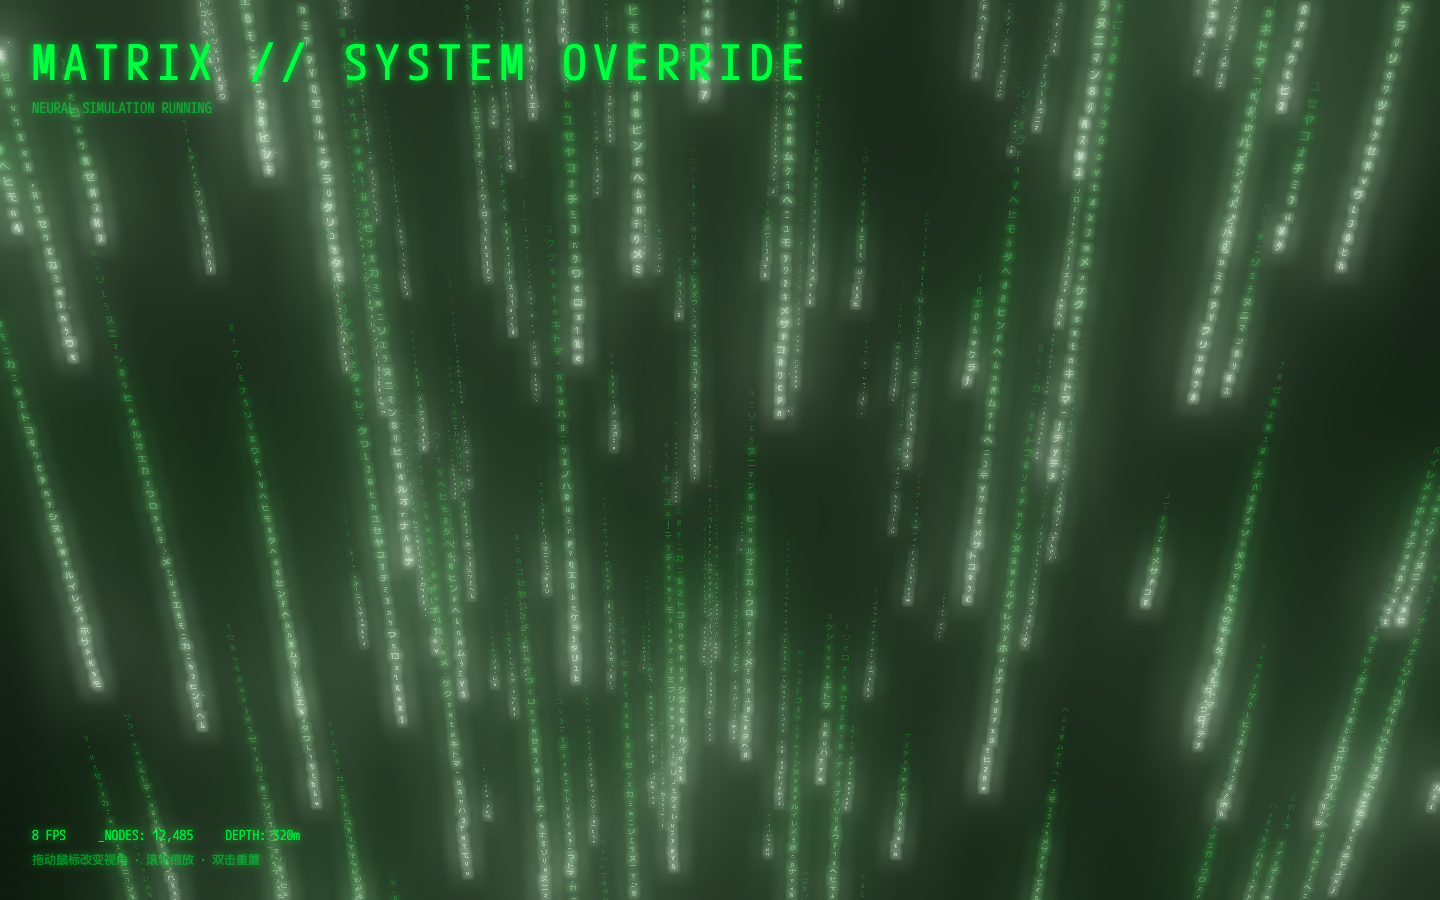
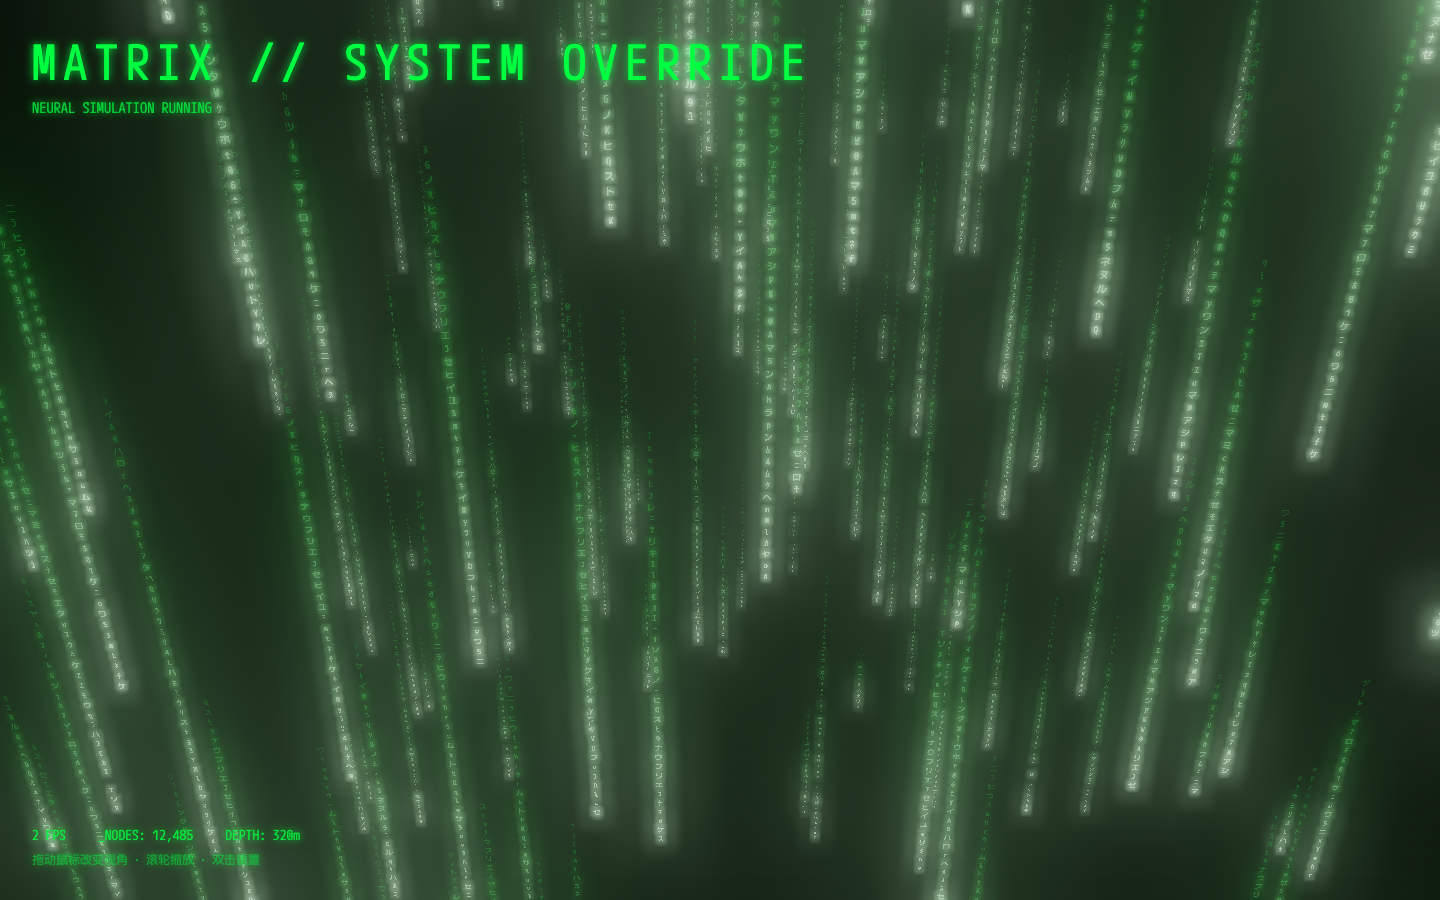
fix: lock camera, stop grid rotation, stagger per-column char changes

diff --git a/matrix.js b/matrix.js
@@ -116,6 +116,7 @@ const rainVertexShader = /* glsl */`
   attribute float aOffset;
   attribute float aLayerZ;
   attribute float aBrightness;
+  attribute float aCharSeed;
 
   uniform float uTime;
   uniform float uSpread;
@@ -133,7 +134,6 @@ const rainVertexShader = /* glsl */`
     vUv = uv;
     vBrightness = aBrightness;
 
-    float col = floor(float(gl_InstanceID) / uRows);
     float row = mod(float(gl_InstanceID), uRows);
 
     float headY = -mod(uTime * aSpeed + aOffset, uDepth) + uDepth * 0.5;
@@ -143,9 +143,11 @@ const rainVertexShader = /* glsl */`
 
     vTrailPos = row / max(aTrailLen, 1.0);
 
-    // Head changes fast; trail stays stable and only updates occasionally
-    float charTime = vTrailPos < 0.12 ? uTime * 7.0 : floor(uTime * 0.6);
-    vCharIndex = mod(charTime + float(gl_InstanceID) * 97.0, 256.0);
+    // Head: changes ~3x/sec. Trail: changes ~once every 5s, staggered per column.
+    float headTime = floor(uTime * 3.0 + aCharSeed * 0.1);
+    float trailTime = floor(uTime * 0.2 + aCharSeed);
+    float charTime = vTrailPos < 0.12 ? headTime : trailTime;
+    vCharIndex = mod(charTime + aCharSeed + row * 37.0, 256.0);
 
     vec3 pos = position * uCharSize;
     pos.x += x;
@@ -235,6 +237,7 @@ async function init() {
       const aOffset = new Float32Array(this.instanceCount);
       const aLayerZ = new Float32Array(this.instanceCount);
       const aBrightness = new Float32Array(this.instanceCount);
+      const aCharSeed = new Float32Array(this.instanceCount);
 
       const layerZ = -layerIndex * 24;
       const brightness = 1.0 - layerIndex * 0.28;
@@ -244,7 +247,8 @@ async function init() {
         const trailLen = CONFIG.trailMin + Math.floor(Math.random() * (CONFIG.trailMax - CONFIG.trailMin));
         const offset = Math.random() * CONFIG.depth;
         const columnX = c + 0.25;
-        const columnZ = layerZ + (Math.random() - 0.5) * 4.0;
+        const columnZ = layerZ;  // fixed per layer, no per-instance Z jitter
+        const charSeed = Math.floor(Math.random() * 256);
 
         for (let r = 0; r < this.maxRows; r++) {
           const i = c * this.maxRows + r;
@@ -254,6 +258,7 @@ async function init() {
           aOffset[i] = offset;
           aLayerZ[i] = columnZ;
           aBrightness[i] = brightness;
+          aCharSeed[i] = charSeed;
         }
       }
 
@@ -263,6 +268,7 @@ async function init() {
       geometry.setAttribute('aOffset', new THREE.InstancedBufferAttribute(aOffset, 1));
       geometry.setAttribute('aLayerZ', new THREE.InstancedBufferAttribute(aLayerZ, 1));
       geometry.setAttribute('aBrightness', new THREE.InstancedBufferAttribute(aBrightness, 1));
+      geometry.setAttribute('aCharSeed', new THREE.InstancedBufferAttribute(aCharSeed, 1));
 
       const material = new THREE.ShaderMaterial({
         vertexShader: rainVertexShader,
@@ -300,7 +306,7 @@ async function init() {
     rains.push(new MatrixRain(l));
   }
 
-  // GRID
+  // GRID — static, no rotation
   const gridHelper = new THREE.GridHelper(140, 70, '#004d0f', '#001a05');
   gridHelper.position.y = -CONFIG.depth / 2 - 2;
   scene.add(gridHelper);
@@ -317,27 +323,15 @@ async function init() {
   pointLight.position.set(0, 0, 10);
   scene.add(pointLight);
 
-  // INTERACTION
-  const mouse = new THREE.Vector2();
-  let camYaw = 0;
-  let camPitch = 0;
+  // INTERACTION — zoom only, no mouse-driven camera rotation
   let zoom = 32;
-
-  window.addEventListener('mousemove', (e) => {
-    mouse.x = (e.clientX / window.innerWidth) * 2 - 1;
-    mouse.y = -(e.clientY / window.innerHeight) * 2 + 1;
-    camYaw = mouse.x * 0.4;
-    camPitch = mouse.y * 0.25;
-  });
 
   window.addEventListener('wheel', (e) => {
     zoom += e.deltaY * 0.025;
-    zoom = Math.max(12, Math.min(70, zoom));
+    zoom = Math.max(15, Math.min(55, zoom));
   });
 
   window.addEventListener('dblclick', () => {
-    camYaw = 0;
-    camPitch = 0;
     zoom = 32;
   });
 
@@ -369,17 +363,13 @@ async function init() {
 
     rains.forEach(rain => rain.update(time));
 
-    const targetX = Math.sin(camYaw) * zoom;
-    const targetZ = Math.cos(camYaw) * zoom;
-    const targetCam = new THREE.Vector3(targetX, 6 + camPitch * 10, targetZ);
-
-    camera.position.lerp(targetCam, 0.04);
-    camera.lookAt(0, -12 + camPitch * 6, -25);
+    // Camera: fixed position, only zoom changes. No yaw/pitch.
+    camera.position.set(0, 6, zoom);
+    camera.lookAt(0, -12, -25);
 
     pointLight.position.copy(camera.position);
 
-    gridHelper.rotation.y = time * 0.015;
-    gridTop.rotation.y = -time * 0.015;
+    // Grids: completely static
 
     frameCount++;
     fpsTime += dt;

diff --git a/.workbuddy/memory/2026-07-02.md b/.workbuddy/memory/2026-07-02.md
@@ -7,3 +7,4 @@
 - 使用 EdgeOne CLI 部署到 EdgeOne Pages，项目名 `workbuddy-showcase-matrix`，访问地址：https://workbuddy-showcase-matrix-g9kuijah.edgeone.cool
 - MCP 连接器因 Token 错误无法使用，改走 CLI 部署成功。
 - 修复数字雨横向抖动问题：同一列字符统一 Z 深度、降低字符切换频率、减弱 Bloom 强度，并重新部署。
+- 进一步修复：改用支持日文的等宽字体 M PLUS 1 Code，头部字符高频切换、尾部字符低频稳定，彻底消除横向抖动，并重新部署。